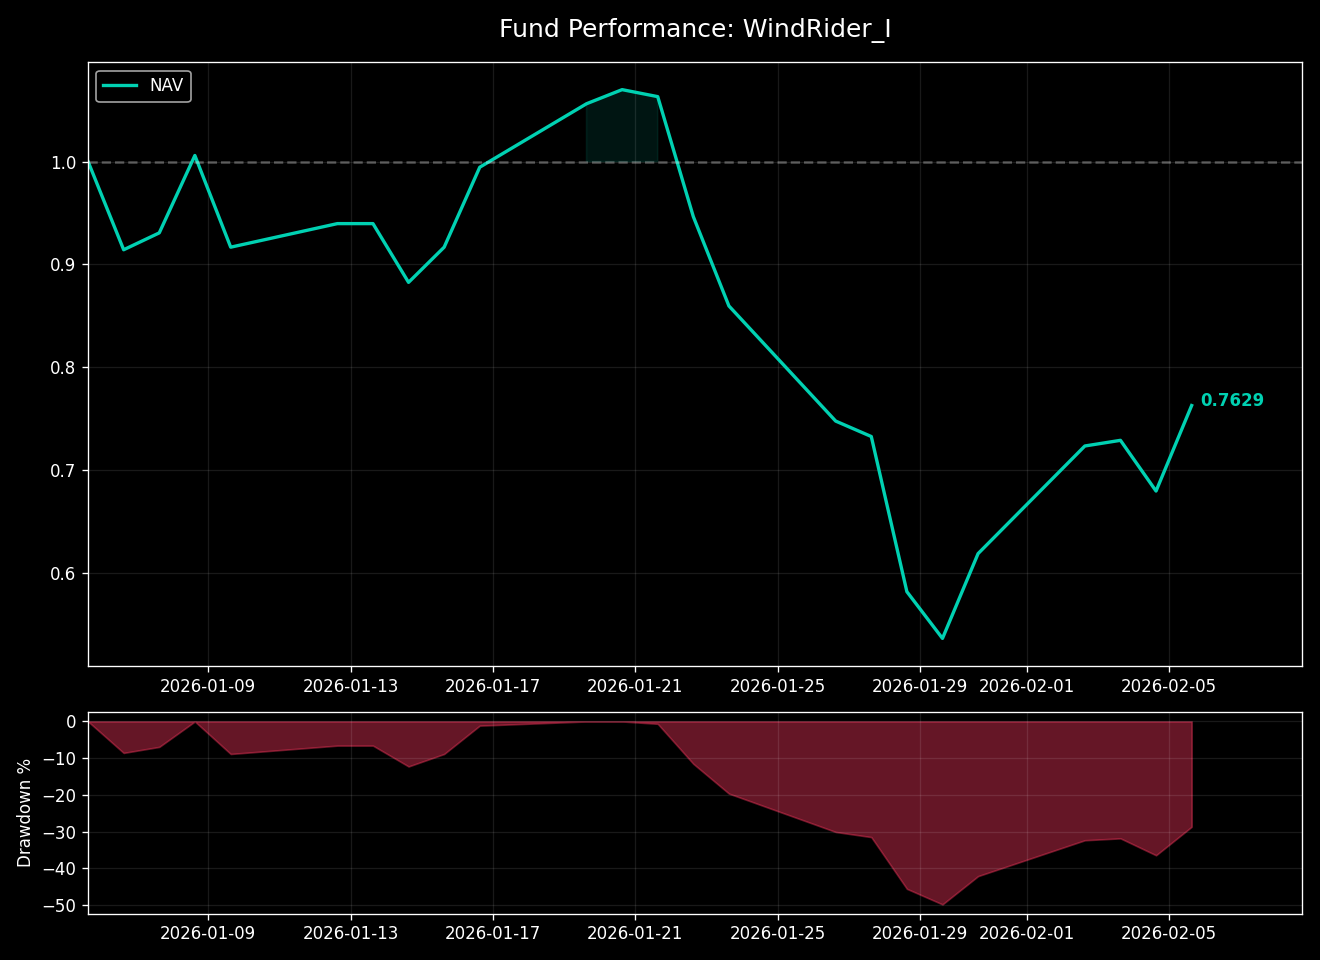
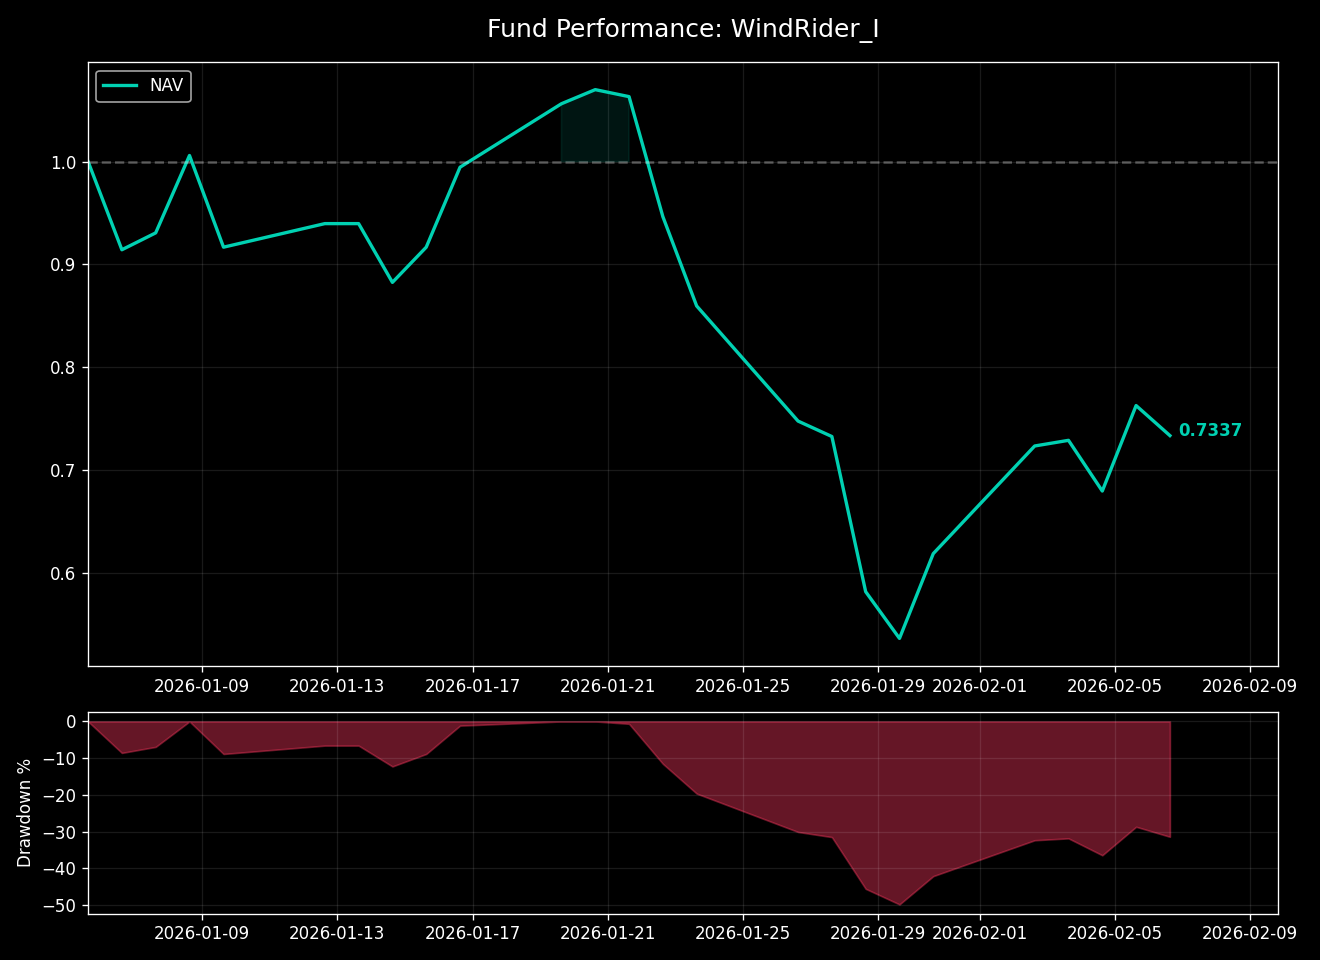
Updated Hugo site content

diff --git a/content/investment/windrider-1.md b/content/investment/windrider-1.md
@@ -1,8 +1,8 @@
 +++
 title = "风舵1号 (WindRider I)  /// 指数"
 summary = "商品期货分形摆动策略，实盘最新净值与核心风险指标。"
-date = 2026-02-05T15:15:03+08:00
-lastmod = 2026-02-05T15:15:03+08:00
+date = 2026-02-06T15:15:04+08:00
+lastmod = 2026-02-06T15:15:04+08:00
 draft = false
 description = "商品期货分形摆动策略实盘"
 +++
@@ -15,24 +15,24 @@ description = "商品期货分形摆动策略实盘"
 
 ### 风舵1号 (WindRider I) &nbsp;&nbsp;<span style="color: #E63946; font-weight: bold;">/</span><span style="color: #F1A73E; font-weight: bold;">/</span><span style="color: #000091; font-weight: bold;">/</span>&nbsp;&nbsp; 指数
 商品期货分形摆动策略实盘<br>
-净值简报 <small>(截至: 2026-02-05)</small>
+净值简报 <small>(截至: 2026-02-06)</small>
 
 |  |  |
 | :--- | :--- |
 | **指数代码：** | WDR1.CTA |
 | **起步日期：** | 2026-01-05 |
-| **最新净值：** | 0.7629 |
-| **今日涨跌：** | +12.22% |
+| **最新净值：** | 0.7337 |
+| **今日涨跌：** | -3.83% |
 
 ===========================
 
 | 核心指标 | |
 | :--- | :--- |
-| **累计涨跌：** | -23.71% |
-| **年化收益：** | -95.87% |
+| **累计涨跌：** | -26.63% |
+| **年化收益：** | -97.08% |
 | **最大回撤：** | -49.85% |
-| **卡玛比率：** | -1.92 |
-| **策略状态：** | 已运行 32 天 |
+| **卡玛比率：** | -1.95 |
+| **策略状态：** | 已运行 33 天 |
 
 ### 净值曲线
 ![风舵1号净值曲线](/images/investment/windrider_nav.png)
